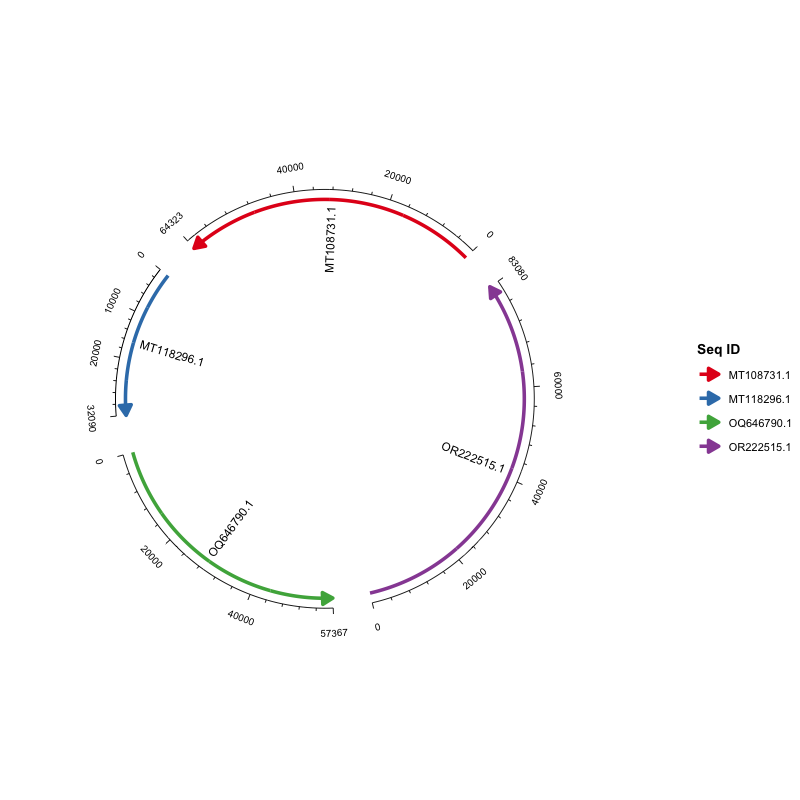
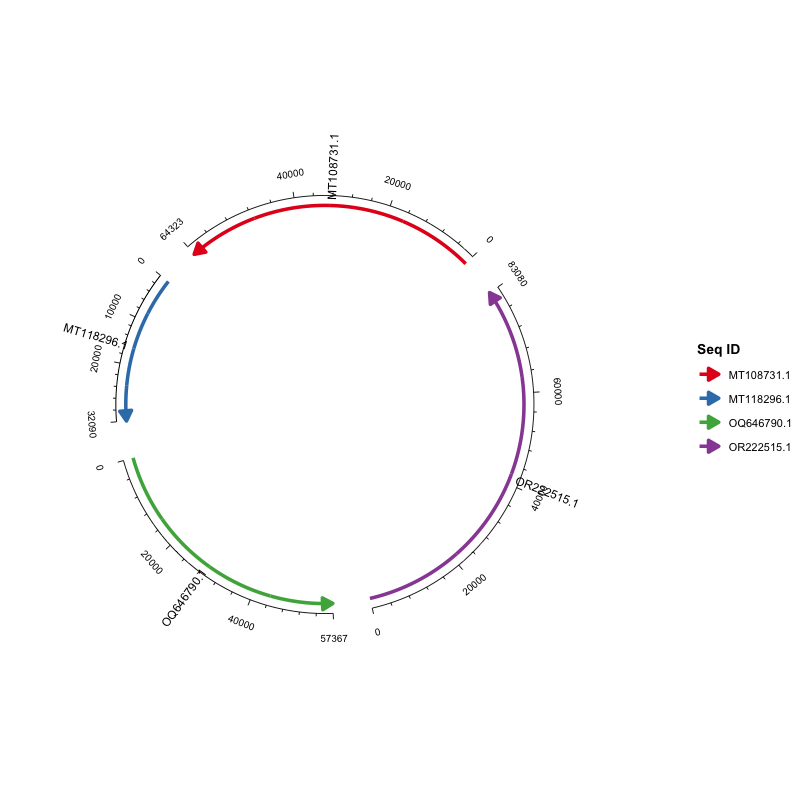
v0.6.0 preview version 21

diff --git a/README.md b/README.md
@@ -375,8 +375,10 @@ ggchord(seq_data_example, ribbon_data_example, gene_data_example) +
 #### Step 4: Add axes and sequence labels
 
 Axes annotate sequence positions with major/minor ticks. By default the tick
-labels run parallel to the axis; `geom_seq_label()` places sequence names on or
-outside the arcs:
+labels run parallel to the axis; `geom_seq_label()` places sequence names
+around the arcs. `seq_label_radius` is a multiplier of the arc radius:
+`1` sits on the arc, `> 1` moves the label outside (away from the chord
+center, e.g. `1.2` = 20% outside) and `< 1` moves it inside:
 
 ```r
 ggchord(seq_data_example) +
@@ -390,6 +392,23 @@ ggchord(seq_data_example) +
 ```
 
 ![Axes and sequence labels](man/figures/axis_seq_label.png)
+
+Sequence labels are rotated along their arc and kept readable by default; set
+`seq_label_orientation = "horizontal"` to draw every label horizontally,
+extending away from the chord center:
+
+```r
+ggchord(seq_data_example, rotation = 30) +
+  geom_seq() +
+  geom_seq_label(
+    seq_label_radius = 1.15,
+    seq_label_orientation = "horizontal",
+    seq_label_size = 3.5,
+    colour = "#2563EB"
+  )
+```
+
+![Horizontal sequence labels](man/figures/seq_label_horizontal.png)
 
 #### Step 5: Two-sequence comparison
 
@@ -479,7 +498,7 @@ ggchord(
     seed = 42
   ) +
   geom_seq_label(
-    seq_label_radius = 0.9,  # < 1 places the names outside the arcs
+    seq_label_radius = 1.1,  # > 1 places the names outside the arcs
     seq_label_size = 3.4,
     colour = "#52525B"
   ) +
@@ -641,10 +660,14 @@ gene_label_rotation = list(20)
 
 | Parameter | Type | Default | Description |
 | --- | --- | --- | --- |
-| `seq_label_radius` | numeric/vector | 1.15 | Radial position of labels as a multiplier of the arc radius (1 = on the arc) |
-| `seq_label_rotation` | numeric/vector | 0 | Additional label rotation (degrees) |
+| `seq_label_radius` | numeric/vector | 1.15 | Radial position of labels as a multiplier of the arc radius: 1 = on the arc, > 1 = outside, < 1 = inside |
+| `seq_label_rotation` | numeric/vector | 0 | Additional label rotation (degrees); ignored in horizontal mode |
 | `seq_label_size` | numeric/vector | 3 | Label font size |
 | `seq_labels` | character vector | NULL | Override label texts (defaults to the sequence labels from `geom_seq()`) |
+| `seq_label_orientation` | character | "arc" | Label text orientation: `"arc"` (rotated along the arc, kept readable) or `"horizontal"` |
+| `seq_label_hjust` | numeric/vector | NULL (0.5) | Horizontal justification; automatic (text extends away from the chord) in horizontal mode |
+| `seq_label_vjust` | numeric/vector | NULL (0.5) | Vertical justification |
+| `check_overlap` | logical | FALSE | Skip labels that would overlap a previously drawn label |
 | `show_legend` | logical | FALSE | Show legend |
 
 ### geom_ribbon() Parameters

diff --git a/README-Hans.md b/README-Hans.md
@@ -342,7 +342,10 @@ ggchord(seq_data_example, ribbon_data_example, gene_data_example) +
 
 #### 第 4 步：加入坐标轴与序列标签
 
-坐标轴用主/次刻度标注序列位置。默认刻度标签平行于坐标轴；`geom_seq_label()` 将序列名称放在弧线内侧或外侧：
+坐标轴用主/次刻度标注序列位置。默认刻度标签平行于坐标轴；
+`geom_seq_label()` 将序列名称放在弧线周围。`seq_label_radius` 是弧线半径的
+倍数：`1` 表示在弧线上，`> 1` 表示移到弧线外侧（远离圆心，如 `1.2` = 弧外
+20%），`< 1` 表示移到内侧：
 
 ```r
 ggchord(seq_data_example) +
@@ -356,6 +359,23 @@ ggchord(seq_data_example) +
 ```
 
 ![坐标轴与序列标签](man/figures/axis_seq_label.png)
+
+序列标签默认沿弧线旋转并自动保持文字可读；设置
+`seq_label_orientation = "horizontal"` 可以让所有标签保持水平，
+文字从圆心向外延伸：
+
+```r
+ggchord(seq_data_example, rotation = 30) +
+  geom_seq() +
+  geom_seq_label(
+    seq_label_radius = 1.15,
+    seq_label_orientation = "horizontal",
+    seq_label_size = 3.5,
+    colour = "#2563EB"
+  )
+```
+
+![水平序列标签](man/figures/seq_label_horizontal.png)
 
 #### 第 5 步：双序列比较
 
@@ -444,7 +464,7 @@ ggchord(
     seed = 42
   ) +
   geom_seq_label(
-    seq_label_radius = 0.9,  # 小于 1 时名称放在弧线外侧
+    seq_label_radius = 1.1,  # 大于 1 时名称放在弧线外侧
     seq_label_size = 3.4,
     colour = "#52525B"
   ) +
@@ -595,10 +615,14 @@ gene_label_rotation = list(20)
 
 | 参数 | 类型 | 默认值 | 说明 |
 | --- | --- | --- | --- |
-| `seq_label_radius` | 数值/向量 | 1.15 | 标签径向位置（弧线半径的倍数，1 = 在弧线上） |
-| `seq_label_rotation` | 数值/向量 | 0 | 标签额外旋转角度（度） |
+| `seq_label_radius` | 数值/向量 | 1.15 | 标签径向位置（弧线半径的倍数：1 = 在弧线上，> 1 = 外侧，< 1 = 内侧） |
+| `seq_label_rotation` | 数值/向量 | 0 | 标签额外旋转角度（度）；水平模式下忽略 |
 | `seq_label_size` | 数值/向量 | 3 | 标签字号 |
 | `seq_labels` | 字符向量 | NULL | 覆盖标签文本（默认使用 `geom_seq()` 中的序列标签） |
+| `seq_label_orientation` | 字符 | "arc" | 标签文字方向：`"arc"`（沿弧线旋转并保持可读）或 `"horizontal"`（全部水平） |
+| `seq_label_hjust` | 数值/向量 | NULL (0.5) | 水平对齐方式；水平模式下自动设为文字远离圆心 |
+| `seq_label_vjust` | 数值/向量 | NULL (0.5) | 垂直对齐方式 |
+| `check_overlap` | logical | FALSE | 跳过会与已有标签重叠的标签 |
 | `show_legend` | logical | FALSE | 是否显示图例 |
 
 ### geom_ribbon() 参数

diff --git a/NEWS.md b/NEWS.md
@@ -13,6 +13,16 @@
   other valid ggplot2 linetype (e.g. `"dotted"` or a numeric dash pattern) is
   applied to all leader lines.
 
+* `geom_seq_label()` now documents and follows the intended `seq_label_radius`
+  semantics: `1` sits on the arc, `> 1` places the label outside (away from
+  the chord center) and `< 1` inside. Previously the multiplier was applied in
+  the opposite direction (the default `1.15` put labels *inside* the chord).
+
+* New `geom_seq_label()` options: `seq_label_orientation = "arc" | "horizontal"`
+  (horizontal labels extend away from the chord center),
+  `seq_label_hjust` / `seq_label_vjust` for per-sequence justification, and
+  `check_overlap` to skip labels that would overlap.
+
 ## Improvements
 
 * Elbow leader lines no longer force fixed segment lengths: the stub scales
@@ -21,6 +31,10 @@
   degenerate (near-zero) stubs.
 
 ## Bug fixes
+
+* Sequence (and gene) labels no longer end up upside down when a global
+  `rotation >= 90` is used: the readability flip is now re-applied after the
+  layout rotation instead of only before it.
 
 * The repulsion spring now pulls labels toward their own starting position
   rather than the leader-line anchor, which keeps labels moved with
